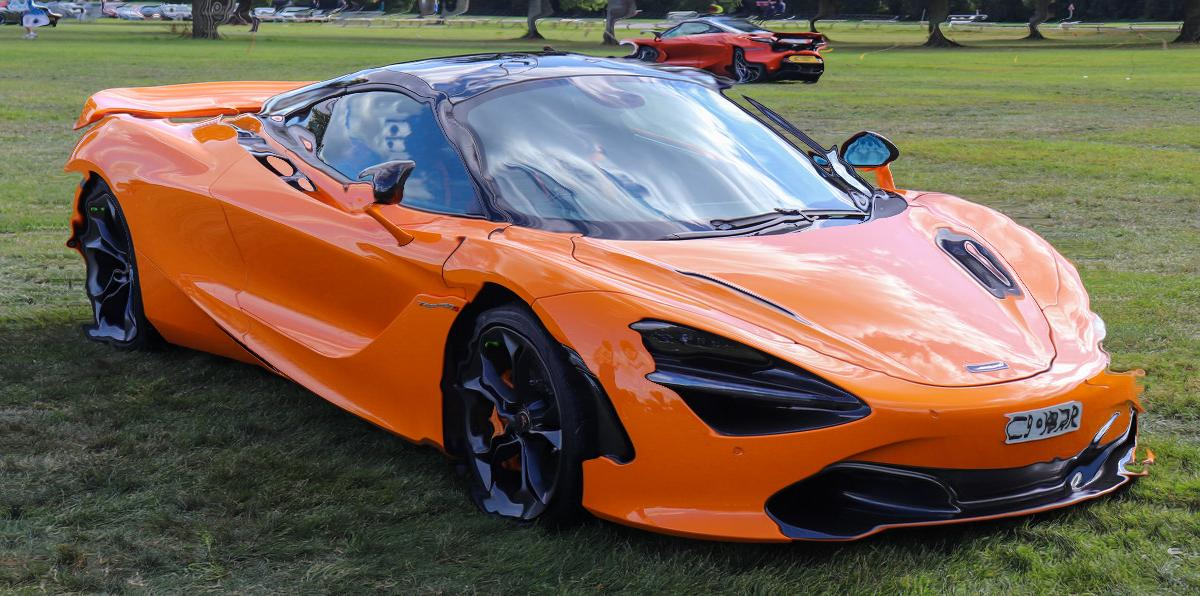
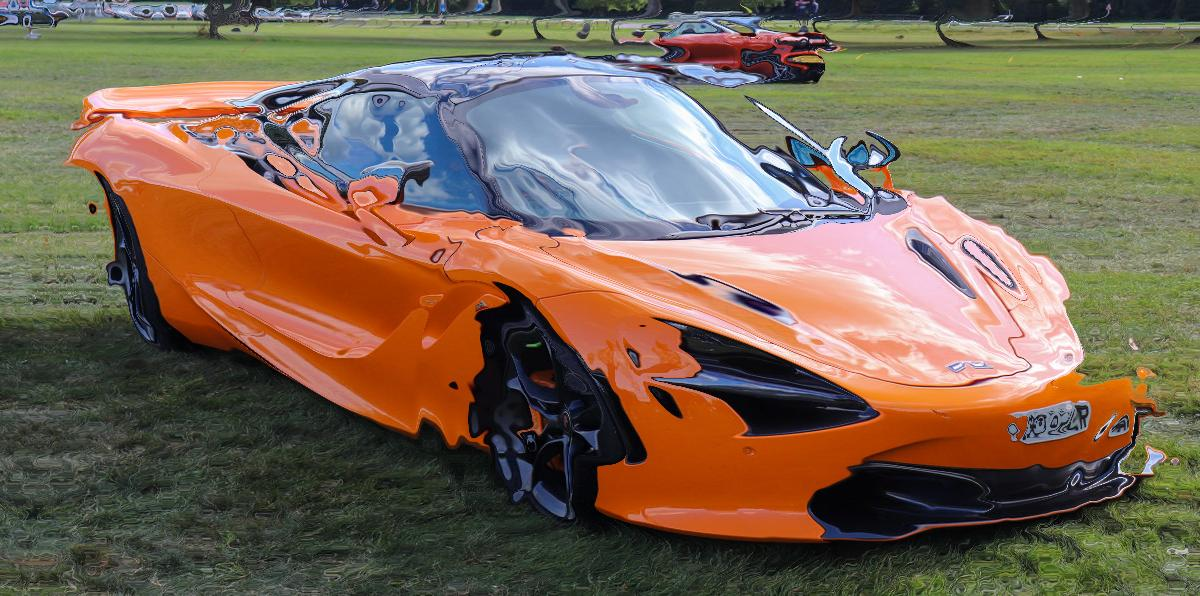
fix(displace): stronger default amount
The README example was barely visible because the default shift was too
small to tear light and dark areas apart. A larger default amount makes
the displacement read on the same photo.

diff --git a/displace/displace.py b/displace/displace.py
@@ -14,7 +14,7 @@ def main() -> None:
     parser = argparse.ArgumentParser(description="Displace pixels by their own brightness.")
     parser.add_argument("input", help="Input image path")
     parser.add_argument("output", nargs="?", default=None, help="Output image path")
-    parser.add_argument("--amount", type=float, default=60.0, help="Maximum displacement in pixels, 0 to 300 (default: 60.0)")
+    parser.add_argument("--amount", type=float, default=150.0, help="Maximum displacement in pixels, 0 to 300 (default: 150.0)")
     parser.add_argument("--angle", type=float, default=0.0, help="Displacement direction in degrees (default: 0.0)")
     parser.add_argument("--blur", type=float, default=3.0, help="Blur sigma of the brightness map (default: 3.0)")
     args = parser.parse_args()

diff --git a/README.md b/README.md
@@ -352,7 +352,7 @@ Move each pixel along an angle by an amount taken from its own blurred brightnes
 python3 ./displace/displace.py <input> [output] [--amount PX] [--angle DEG] [--blur N]
 ```
 
-Default: `--amount 60 --angle 0 --blur 3`
+Default: `--amount 150 --angle 0 --blur 3`
 
 ![displace example](_output/mclaren-displace.jpg)
 
